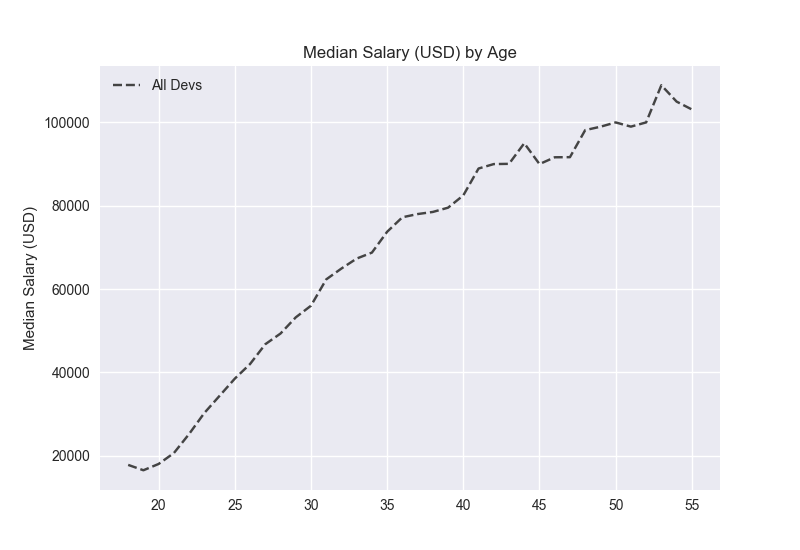
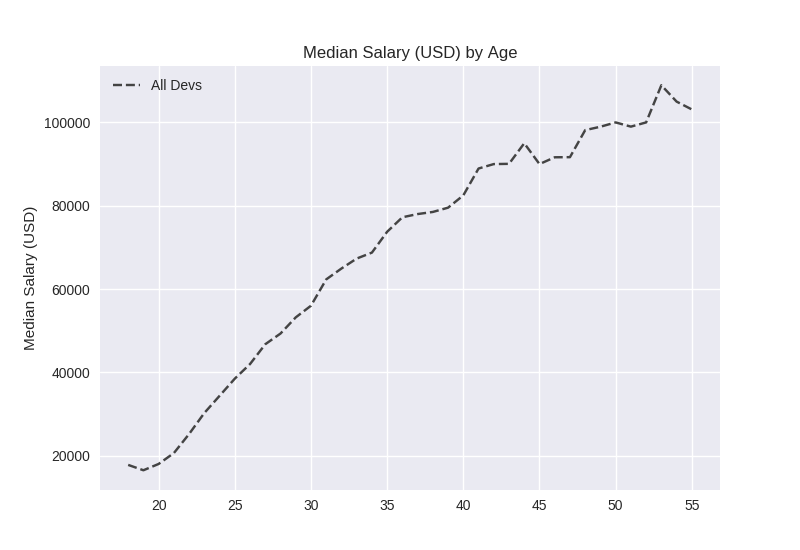
Save figs to disk

diff --git a/10-Subplots/starting_code.py b/10-Subplots/starting_code.py
@@ -30,3 +30,6 @@ ax2.set_ylabel('Median Salary (USD)')
 plt.tight_layout()
 
 plt.show()
+
+fig1.savefig('fig1.png')
+fig2.savefig('fig2.png')
